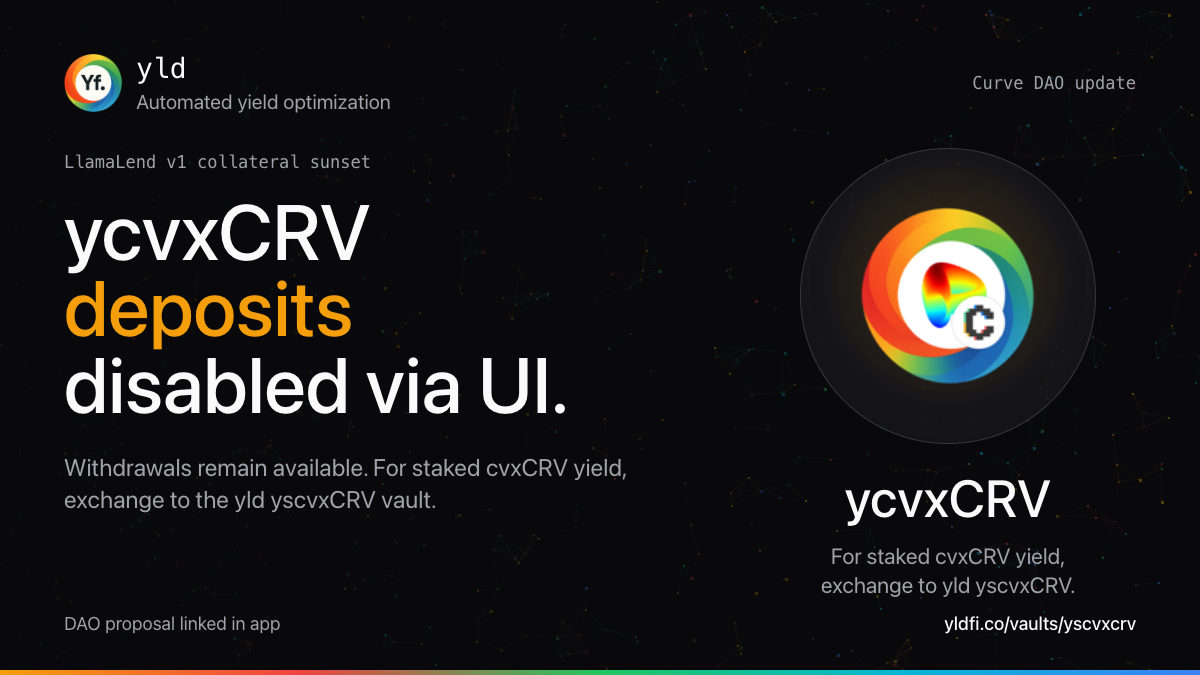
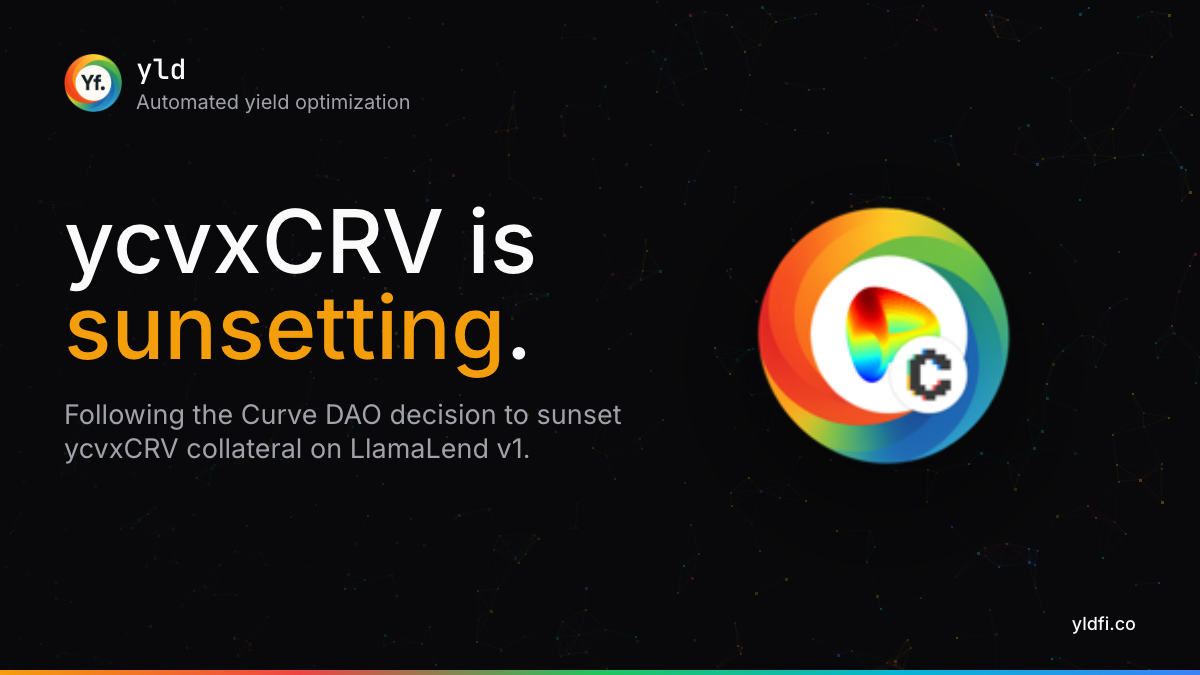
chore: refine ycvxcrv sunset promo

diff --git a/public/social/ycvxcrv-sunset-card.html b/public/social/ycvxcrv-sunset-card.html
@@ -4,6 +4,9 @@
     <meta charset="utf-8" />
     <meta name="viewport" content="width=1200, initial-scale=1" />
     <title>ycvxCRV LlamaLend Sunset Card</title>
+    <link rel="preconnect" href="https://fonts.googleapis.com" />
+    <link rel="preconnect" href="https://fonts.gstatic.com" crossorigin />
+    <link href="https://fonts.googleapis.com/css2?family=Inter:wght@400;500;600&family=JetBrains+Mono:wght@500&display=swap" rel="stylesheet" />
     <style>
       * {
         box-sizing: border-box;
@@ -71,6 +74,7 @@
 
       .bottomline {
         bottom: 42px;
+        justify-content: flex-end;
         color: var(--muted);
         font-size: 18px;
         line-height: 1;
@@ -116,34 +120,18 @@
         letter-spacing: 0;
       }
 
-      .date {
-        color: var(--muted);
-        font-size: 17px;
-        line-height: 1;
-        font-weight: 500;
-      }
-
       .hero {
         position: absolute;
         z-index: 2;
-        top: 154px;
+        top: 198px;
         left: 64px;
-        width: 610px;
-      }
-
-      .eyebrow {
-        margin: 0 0 22px;
-        color: var(--muted);
-        font-size: 17px;
-        line-height: 1;
-        font-weight: 500;
-        letter-spacing: 0;
+        width: 650px;
       }
 
       h1 {
         margin: 0;
         color: var(--foreground);
-        font-size: 78px;
+        font-size: 88px;
         line-height: 0.98;
         font-weight: 500;
         letter-spacing: 0;
@@ -159,12 +147,17 @@
         color: var(--accent);
       }
 
+      h1 .period {
+        display: inline;
+        color: var(--foreground);
+      }
+
       .support {
-        margin: 30px 0 0;
-        max-width: 570px;
+        margin: 28px 0 0;
+        max-width: 580px;
         color: var(--muted);
-        font-size: 24px;
-        line-height: 1.32;
+        font-size: 27px;
+        line-height: 1.25;
         font-weight: 400;
         letter-spacing: 0;
       }
@@ -172,47 +165,16 @@
       .logo-feature {
         position: absolute;
         z-index: 3;
-        top: 148px;
-        right: 74px;
-        width: 356px;
+        top: 206px;
+        right: 176px;
+        width: 280px;
         text-align: center;
       }
 
-      .logo-disc {
-        display: flex;
-        align-items: center;
-        justify-content: center;
-        width: 296px;
-        height: 296px;
-        margin: 0 auto;
-        border: 1px solid rgba(63, 63, 70, 0.78);
-        border-radius: 999px;
-        background:
-          radial-gradient(circle at 50% 45%, rgba(245, 158, 11, 0.22), rgba(24, 24, 27, 0.66) 58%, rgba(9, 9, 11, 0.2)),
-          rgba(24, 24, 27, 0.58);
-      }
-
-      .logo-disc img {
-        width: 178px;
-        height: 178px;
-      }
-
-      .logo-feature strong {
-        display: block;
-        margin-top: 28px;
-        color: var(--foreground);
-        font-size: 52px;
-        line-height: 1;
-        font-weight: 500;
-        letter-spacing: 0;
-      }
-
-      .logo-feature p {
-        margin: 18px auto 0;
-        max-width: 320px;
-        color: var(--muted);
-        font-size: 22px;
-        line-height: 1.32;
+      .logo-feature img {
+        width: 260px;
+        height: 260px;
+        filter: drop-shadow(0 30px 70px rgba(0, 0, 0, 0.58));
       }
     </style>
   </head>
@@ -226,30 +188,22 @@
             <span class="brand-tagline">Automated yield optimization</span>
           </div>
         </div>
-        <span class="date mono">Curve DAO update</span>
       </header>
 
       <section class="hero">
-        <p class="eyebrow mono">LlamaLend v1 collateral sunset</p>
         <h1>
-          <span>ycvxCRV</span>
-          <em>deposits</em>
-          <span>disabled via UI.</span>
+          <span>ycvxCRV is</span>
+          <em>sunsetting<span class="period">.</span></em>
         </h1>
-        <p class="support">Withdrawals remain available. For staked cvxCRV yield, exchange to the yld yscvxCRV vault.</p>
+        <p class="support">Following the Curve DAO decision to sunset ycvxCRV collateral on LlamaLend v1.</p>
       </section>
 
       <aside class="logo-feature">
-        <div class="logo-disc">
-          <img src="../ycvxcrv-128.png" alt="" />
-        </div>
-        <strong>ycvxCRV</strong>
-        <p>For staked cvxCRV yield, exchange to yld yscvxCRV.</p>
+        <img src="../ycvxcrv-128.png" alt="" />
       </aside>
 
       <footer class="bottomline">
-        <span>DAO proposal linked in app</span>
-        <strong>yldfi.co/vaults/yscvxcrv</strong>
+        <strong>yldfi.co</strong>
       </footer>
     </main>
   </body>

diff --git a/public/social/tweet-copy.md b/public/social/tweet-copy.md
@@ -17,11 +17,29 @@ Image: `public/social/ycvxcrv-promo.png`
 ## ycvxCRV LlamaLend v1 Sunset
 
 ```text
-Following the Curve DAO decision to sunset ycvxCRV collateral on LlamaLend v1, yld has disabled new ycvxCRV deposits and zap-ins via the UI.
+1/ ycvxCRV is sunsetting.
 
-Withdrawals remain available. To keep earning yield from staked cvxCRV, exchange to the yld yscvxCRV vault.
+Ahead of LlamaLend v2, the Curve DAO has executed a proposal to deprecate a number of LlamaLend v1 markets, including ycvxCRV collateral.
+
+Forum plan:
+https://gov.curve.finance/t/llamalend-v1-market-deprecation-plan/11075
+
+2/ As a result, yld has disabled new ycvxCRV deposits and zap-ins via the yld UI.
+
+The ycvxCRV vault is immutable, so the contract itself is not paused and can still be interacted with directly.
+
+DAO proposal:
+https://www.curve.finance/dao/ethereum/proposals/1422-ownership
+
+3/ Withdrawals remain available in the yld UI.
+
+Users who want to continue earning yield from staked cvxCRV should exchange ycvxCRV to the yld yscvxCRV vault.
 
 yldfi.co/vaults/yscvxcrv
+
+4/ Once LlamaLend v2 is live on mainnet later in 2026, yld will explore launching a new ycvxCRV vault designed for the v2 market.
+
+Thank you to everyone who used ycvxCRV to borrow against their staked cvxCRV.
 ```
 
 Image: `public/social/ycvxcrv-sunset-promo.png`
